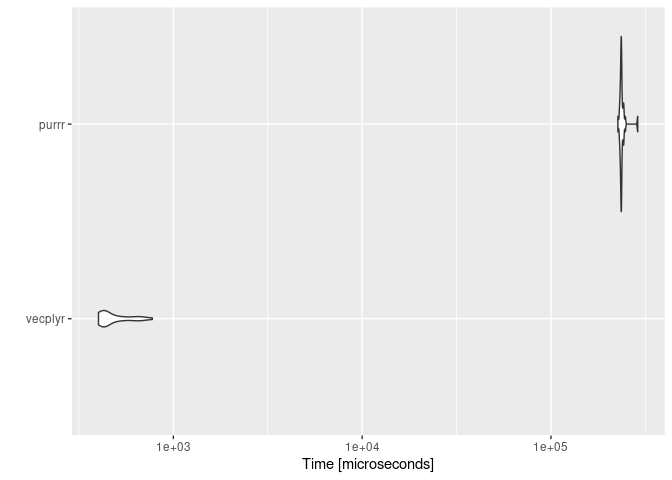
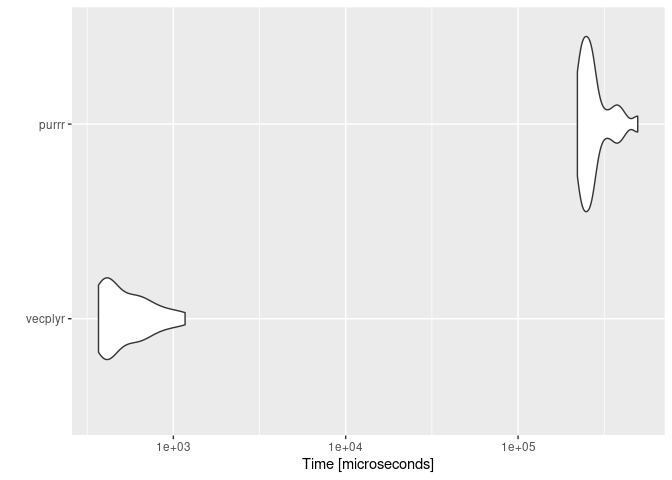
corrigi headme

diff --git a/README.md b/README.md
@@ -7,9 +7,9 @@
 <!-- badges: end -->
 
 `vecplyr` extends 2 dplyr functions to vectors: `filter` and `mutate`.
-They are inspire in `purrr` functions `modify` and `keep`/`discard`, but
-much more efficient since only apply to vectors and vectorized
-functions.
+They are inspired in the `purrr` functions `modify` and
+`keep`/`discard`, but much more efficient since they are restricted to
+vectors and vectorized functions.
 
 ## Installation
 
@@ -25,13 +25,17 @@ devtools::install_github("vituri/vecplyr")
 
 `vecplyr` has two main functions:
 
--   `v_filter` throw away some entries of a vector based on a condition;
+-   `v_filter` throws away some entries of a vector based on a
+    condition;
 -   `v_mutate` modifies a vector with a function when some condition is
     TRUE.
 
 Suppose we want to do the following: given an integer vector `x`, we
-want to: - keep only the even numbers of x; - add 1 to all numbers of
-x; - multiply by -1 the numbers less than 25.
+want to:
+
+-   keep only the even numbers of x;
+-   add 1 to all numbers of x;
+-   multiply by -1 the numbers less than 25.
 
 ``` r
 library(vecplyr)
@@ -116,6 +120,12 @@ mbm = microbenchmark::microbenchmark(
 
   ,times = 25L
 )
+
+mbm
+#> Unit: microseconds
+#>     expr        min         lq        mean     median         uq      max neval
+#>  vecplyr    367.902    409.404    561.0299    433.354    670.785   1169.7    25
+#>    purrr 220927.542 237861.875 280842.1641 263993.494 285044.534 494668.9    25
 ```
 
 ``` r
@@ -138,6 +148,15 @@ mbm2 = microbenchmark::microbenchmark(
 
   ,times = 25L
 )
+
+mbm2
+#> Unit: microseconds
+#>     expr        min         lq       mean     median         uq        max
+#>  vecplyr    739.582    782.288   1013.698    886.655   1115.317   1709.441
+#>    purrr 206635.941 213091.804 226684.704 217007.135 233890.232 294960.861
+#>  neval
+#>     25
+#>     25
 ```
 
 ``` r
